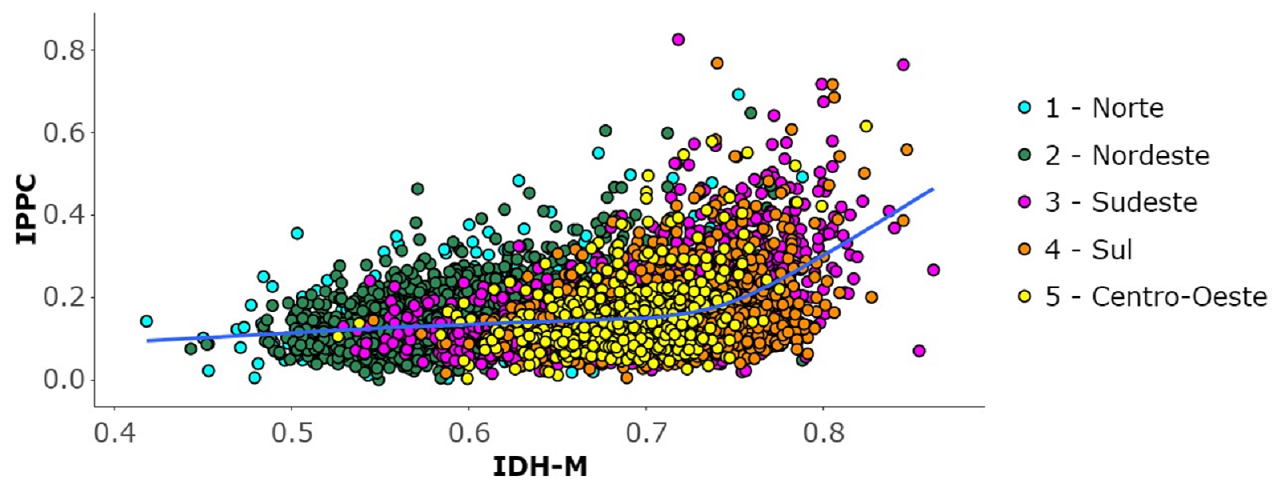
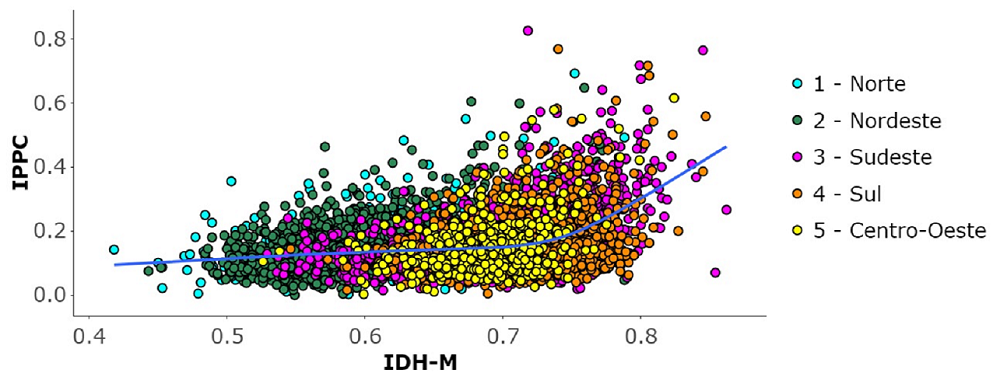
updating...

diff --git a/public/about/index.html b/public/about/index.html
@@ -69,7 +69,9 @@
     <div class="article-content">
       <!-- raw HTML omitted -->
 <!-- raw HTML omitted -->
-<p>This is a &ldquo;hello world&rdquo; example website for the <a href="https://github.com/rstudio/blogdown"><strong>blogdown</strong></a> package. The theme was forked from <a href="https://github.com/jrutheiser/hugo-lithium-theme">@jrutheiser/hugo-lithium-theme</a> and modified by <a href="https://github.com/yihui/hugo-lithium">Yihui Xie</a>.</p>
+<blockquote>
+<p>I am a Brazilian Political Scientist working mainly with political participation of civil society in public policies. I have worked as a Visiting Researcher at the Institute of Development Studies <a href="https://www.ids.ac.uk/">(IDS</a>, from Nov 2018 to Nov 2019), University of Sussex, and have done a pos-doc in the Project “Participação Política – <a href="https://participacaopolitica.cfh.ufsc.br/">Procad (Unesp/UEM/UFSC)</a>&quot;. I have experience working with quantitative data, using <a href="https://www.r-project.org/">R Programming</a> language, and qualitative data, using <a href="https://www.qsrinternational.com/nvivo/home">Nvivo</a>. If you would like to know more about my work, please, visit my academic Curriculum Vitae (CV) and my Publications on this site. If you would like to contact me, please, just send me an email: <a href="mailto:coelhorgs@yahoo.com.br">coelhorgs@yahoo.com.br</a></p>
+</blockquote>
 
     </div>
   </article>

diff --git a/content/post/Other_graphics.html b/content/post/Other_graphics.html
@@ -1,9 +1,6 @@
 ---
 title: "Other Graphics on my works"
 date: 2019-01-08
-output:
-  html_document:
-    code_folding: hide
 ---
 
 
@@ -11,7 +8,7 @@ output:
 <div id="scatterplot-with-notes" class="section level1">
 <h1>Scatterplot with notes</h1>
 <div class="figure">
-<img src="/post/Other_graphics_files/scartter_with_notes.png" />
+<img src="/post/Other_graphics_files/scartter_with_notes.png" style="width:90.0%" style="height:90.0%" />
 
 </div>
 <ul>
@@ -21,7 +18,7 @@ output:
 <div id="wave-graphic-density-graphic" class="section level1">
 <h1>Wave graphic (density graphic)</h1>
 <div class="figure">
-<img src="/post/Other_graphics_files/density.png" />
+<img src="/post/Other_graphics_files/density.png" style="width:80.0%" style="height:80.0%" />
 
 </div>
 <ul>

diff --git a/public/2019/01/08/other-graphics-on-my-works/index.html b/public/2019/01/08/other-graphics-on-my-works/index.html
@@ -77,7 +77,7 @@
 <div id="scatterplot-with-notes" class="section level1">
 <h1>Scatterplot with notes</h1>
 <div class="figure">
-<img src="/post/Other_graphics_files/scartter_with_notes.png" />
+<img src="/post/Other_graphics_files/scartter_with_notes.png" style="width:90.0%" style="height:90.0%" />
 
 </div>
 <ul>
@@ -87,7 +87,7 @@
 <div id="wave-graphic-density-graphic" class="section level1">
 <h1>Wave graphic (density graphic)</h1>
 <div class="figure">
-<img src="/post/Other_graphics_files/density.png" />
+<img src="/post/Other_graphics_files/density.png" style="width:80.0%" style="height:80.0%" />
 
 </div>
 <ul>

diff --git a/content/post/Scartterplot.html b/content/post/Scartterplot.html
@@ -5,7 +5,7 @@ date: 2020-01-30
 
 
 
-<p>Go to the <a href="https://rpubs.com/r_rabbit/512787">dinamic version</a> of the plot on my Rpubs page <img src="/post/Scartterplot_files/scarterplot.png" /></p>
+<p>Go to the <a href="https://rpubs.com/r_rabbit/512787">dinamic version</a> of the plot on my Rpubs page <img src="/post/Scartterplot_files/scarterplot.png" align="center" style="width:95.0%" style="height:95.0%" /></p>
 <ul>
 <li>Designed to be plotted on my works. See the Publication Tab.</li>
 </ul>

diff --git a/public/2020/01/30/scartterplot-with-link-to-dinamic-version/index.html b/public/2020/01/30/scartterplot-with-link-to-dinamic-version/index.html
@@ -74,7 +74,7 @@
       
 
 
-<p>Go to the <a href="https://rpubs.com/r_rabbit/512787">dinamic version</a> of the plot on my Rpubs page <img src="/post/Scartterplot_files/scarterplot.png" /></p>
+<p>Go to the <a href="https://rpubs.com/r_rabbit/512787">dinamic version</a> of the plot on my Rpubs page <img src="/post/Scartterplot_files/scarterplot.png" align="center" style="width:95.0%" style="height:95.0%" /></p>
 <ul>
 <li>Designed to be plotted on my works. See the Publication Tab.</li>
 </ul>

diff --git a/content/about.md b/content/about.md
@@ -8,4 +8,4 @@ body {
 text-align: justify}
 </style>
 
-> I am a Brazilian Political Scientist working mainly with political participation of civil society in public policies. I have worked as a Visiting Researcher at the Institute of Development Studies [(IDS](https://www.ids.ac.uk/), from Nov 2018 to Nov 2019), University of Sussex, and have done a pos-doc in the Project “Participação Política – [Procad (Unesp/UEM/UFSC)](https://participacaopolitica.cfh.ufsc.br/)". I have experience working with quantitative data, using [R Programming](https://www.r-project.org/) language, and qualitative data, using [Nvivo](https://www.qsrinternational.com/nvivo/home). If you would like to know more about my work, please, visit my academic Curriculum Vitae (CV) and my Publications on this site. If you want to contact me, please, just send me an email: coelhorgs@yahoo.com.br
+> I am a Brazilian Political Scientist working mainly with political participation of civil society in public policies. I have worked as a Visiting Researcher at the Institute of Development Studies [(IDS](https://www.ids.ac.uk/), from Nov 2018 to Nov 2019), University of Sussex, and have done a pos-doc in the Project “Participação Política – [Procad (Unesp/UEM/UFSC)](https://participacaopolitica.cfh.ufsc.br/)". I have experience working with quantitative data, using [R Programming](https://www.r-project.org/) language, and qualitative data, using [Nvivo](https://www.qsrinternational.com/nvivo/home). If you would like to know more about my work, please, visit my academic Curriculum Vitae (CV) and my Publications on this site. If you would like to contact me, please, just send me an email: coelhorgs@yahoo.com.br
